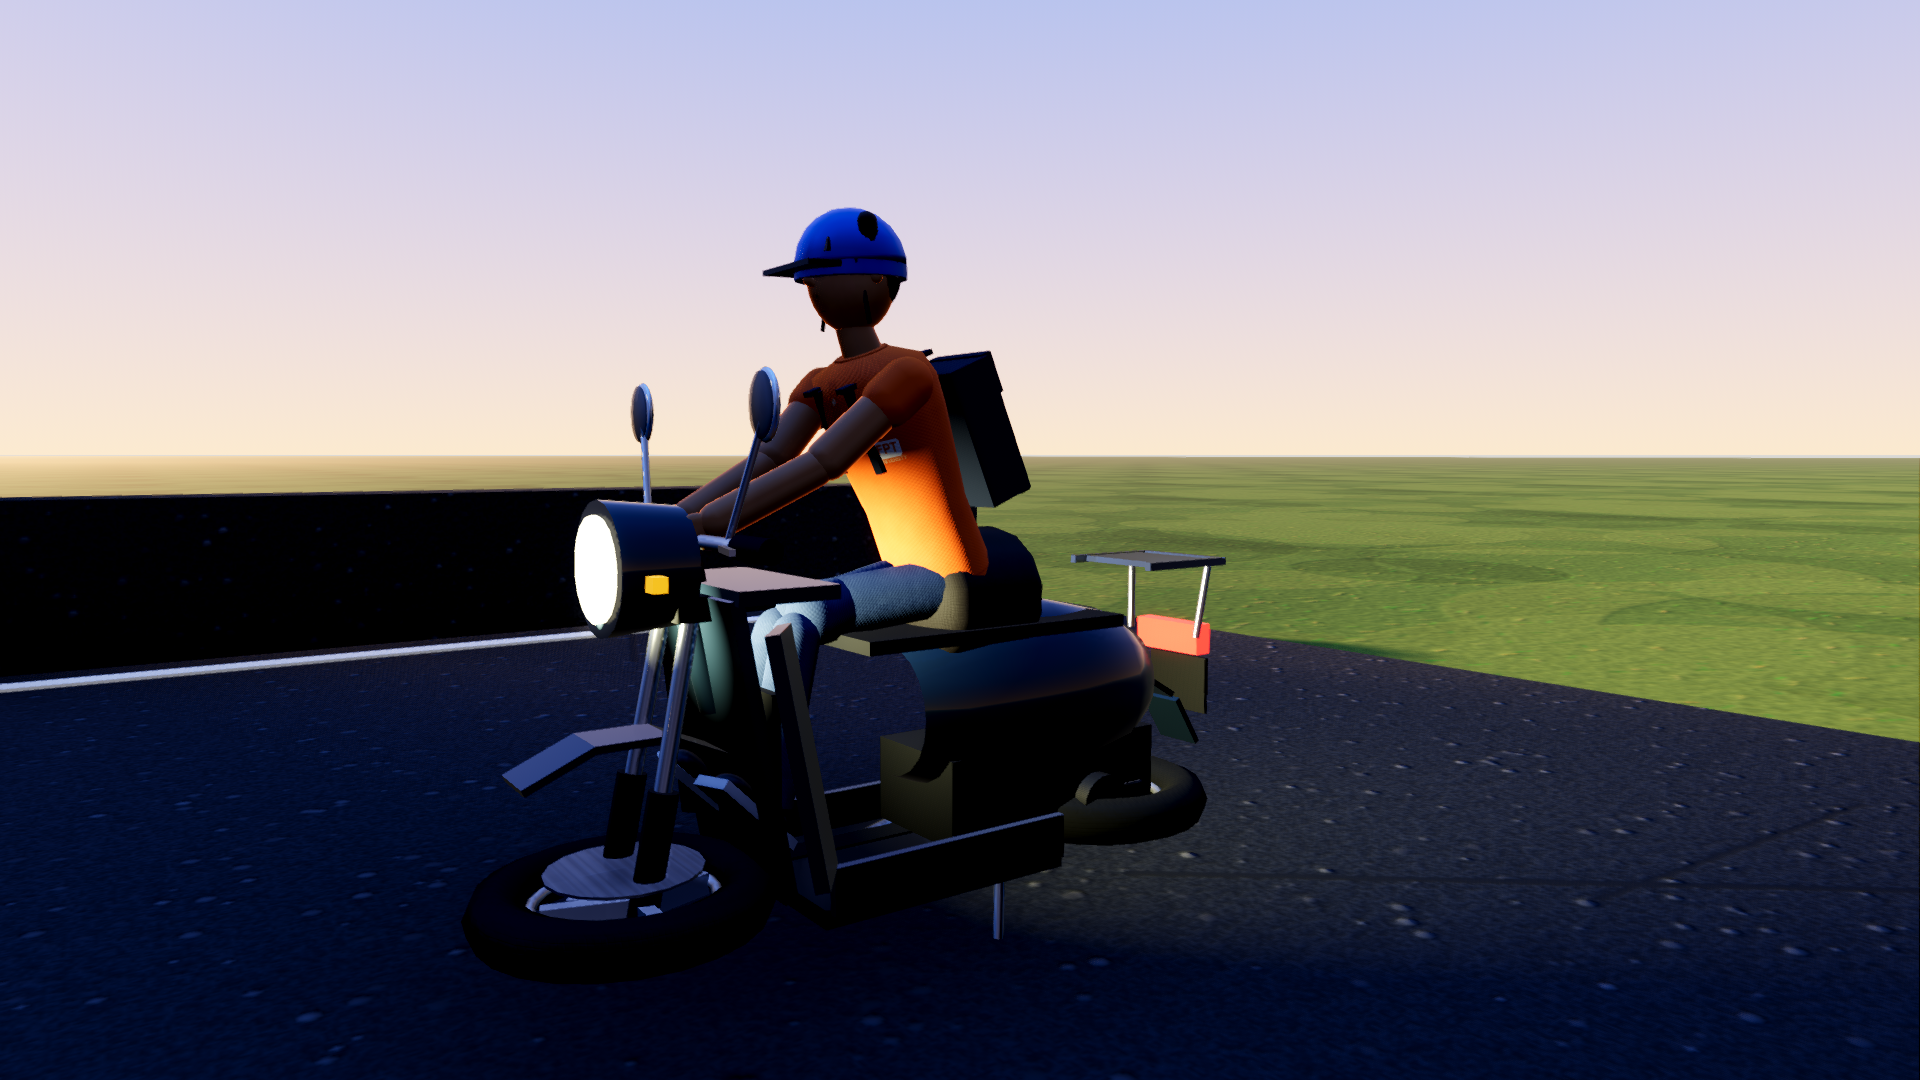
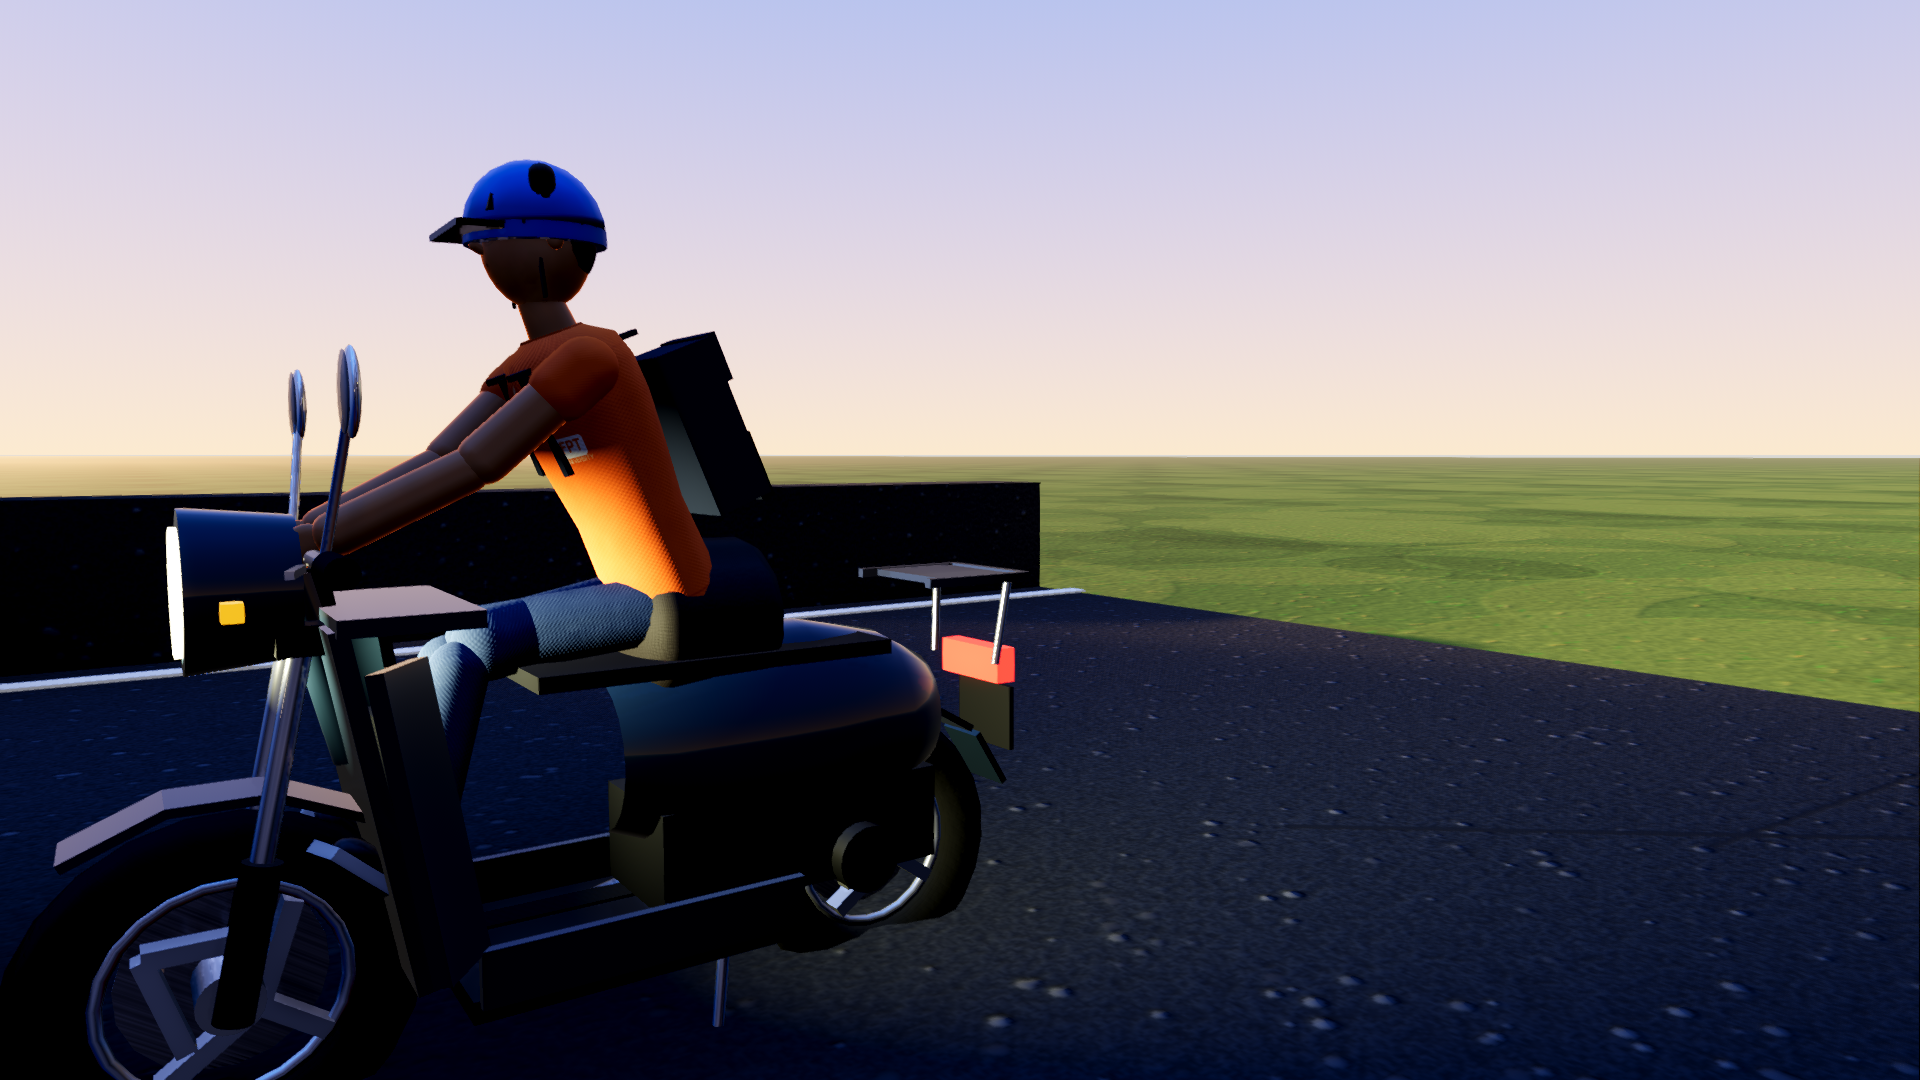
fix: player scooter wheels were lying flat and spinning around the vertical axis
PlayerBike.tscn's FrontWheel/RearWheel pivots carry a 90-degree Z rotation meant for the old cylinder mesh, so the
new spoked wheels mounted under them had a vertical axle and turned like a turntable (reported by the owner as
"wheels spin the wrong way"). build_wheel now accepts a basis and build_scooter_parts passes the inverse of the pivot
basis, so the tyre axle is the bike's X axis and rotate_x spins it forward. tests/test_wheel_spin.gd asserts the axle
direction and that the top of the wheel moves forward while driving.

diff --git a/PLAN.md b/PLAN.md
@@ -231,6 +231,7 @@ Yêu cầu chủ dự án: *"người và đồ vật giống thật hơn thay v
 | `tests/test_hud_bounds.gd` | Menu + 7 màn ở 3 độ phân giải: không Control nào tràn khỏi viewport |
 | `tests/test_character_builder.gd` | 13 preset đủ pivot/≥20 mesh, 21 clip chạy 120 frame, bake() ≥3 surface, set_opacity, 16 texture mặt |
 | `tests/test_music.gd` | MusicDirector phát đủ 8 style, đổi tension, fade-out, quãng 8 đúng x2 |
+| `tests/test_wheel_spin.gd` | Lốp xe người chơi có trục song song trục X của xe và đỉnh bánh quay về phía trước khi chạy tới (bắt lỗi bánh nằm bẹt / quay ngược) |
 | `godot --path . --script tests/preview_campus.gd` (cần cửa sổ) | Chụp 7 góc campus trong Màn 1 → `user://preview/*.png` (bản sao ở `docs/preview/`) |
 | `godot --path . --script tests/preview_stage2.gd` (cần cửa sổ) | Chụp 9 góc Màn 2: D1, cổng bãi xe, lối xe, bãi xe, lối sau, sân trong, cầu thang, cửa Lab 402, toàn cảnh |
 | `godot --path . --script tests/preview_stages.gd` (cần cửa sổ) | Chụp Màn 3, 4, 5, 6, Extra từ camera gameplay + 1–2 góc phụ (cửa sổ, hiên, CCTV) |
